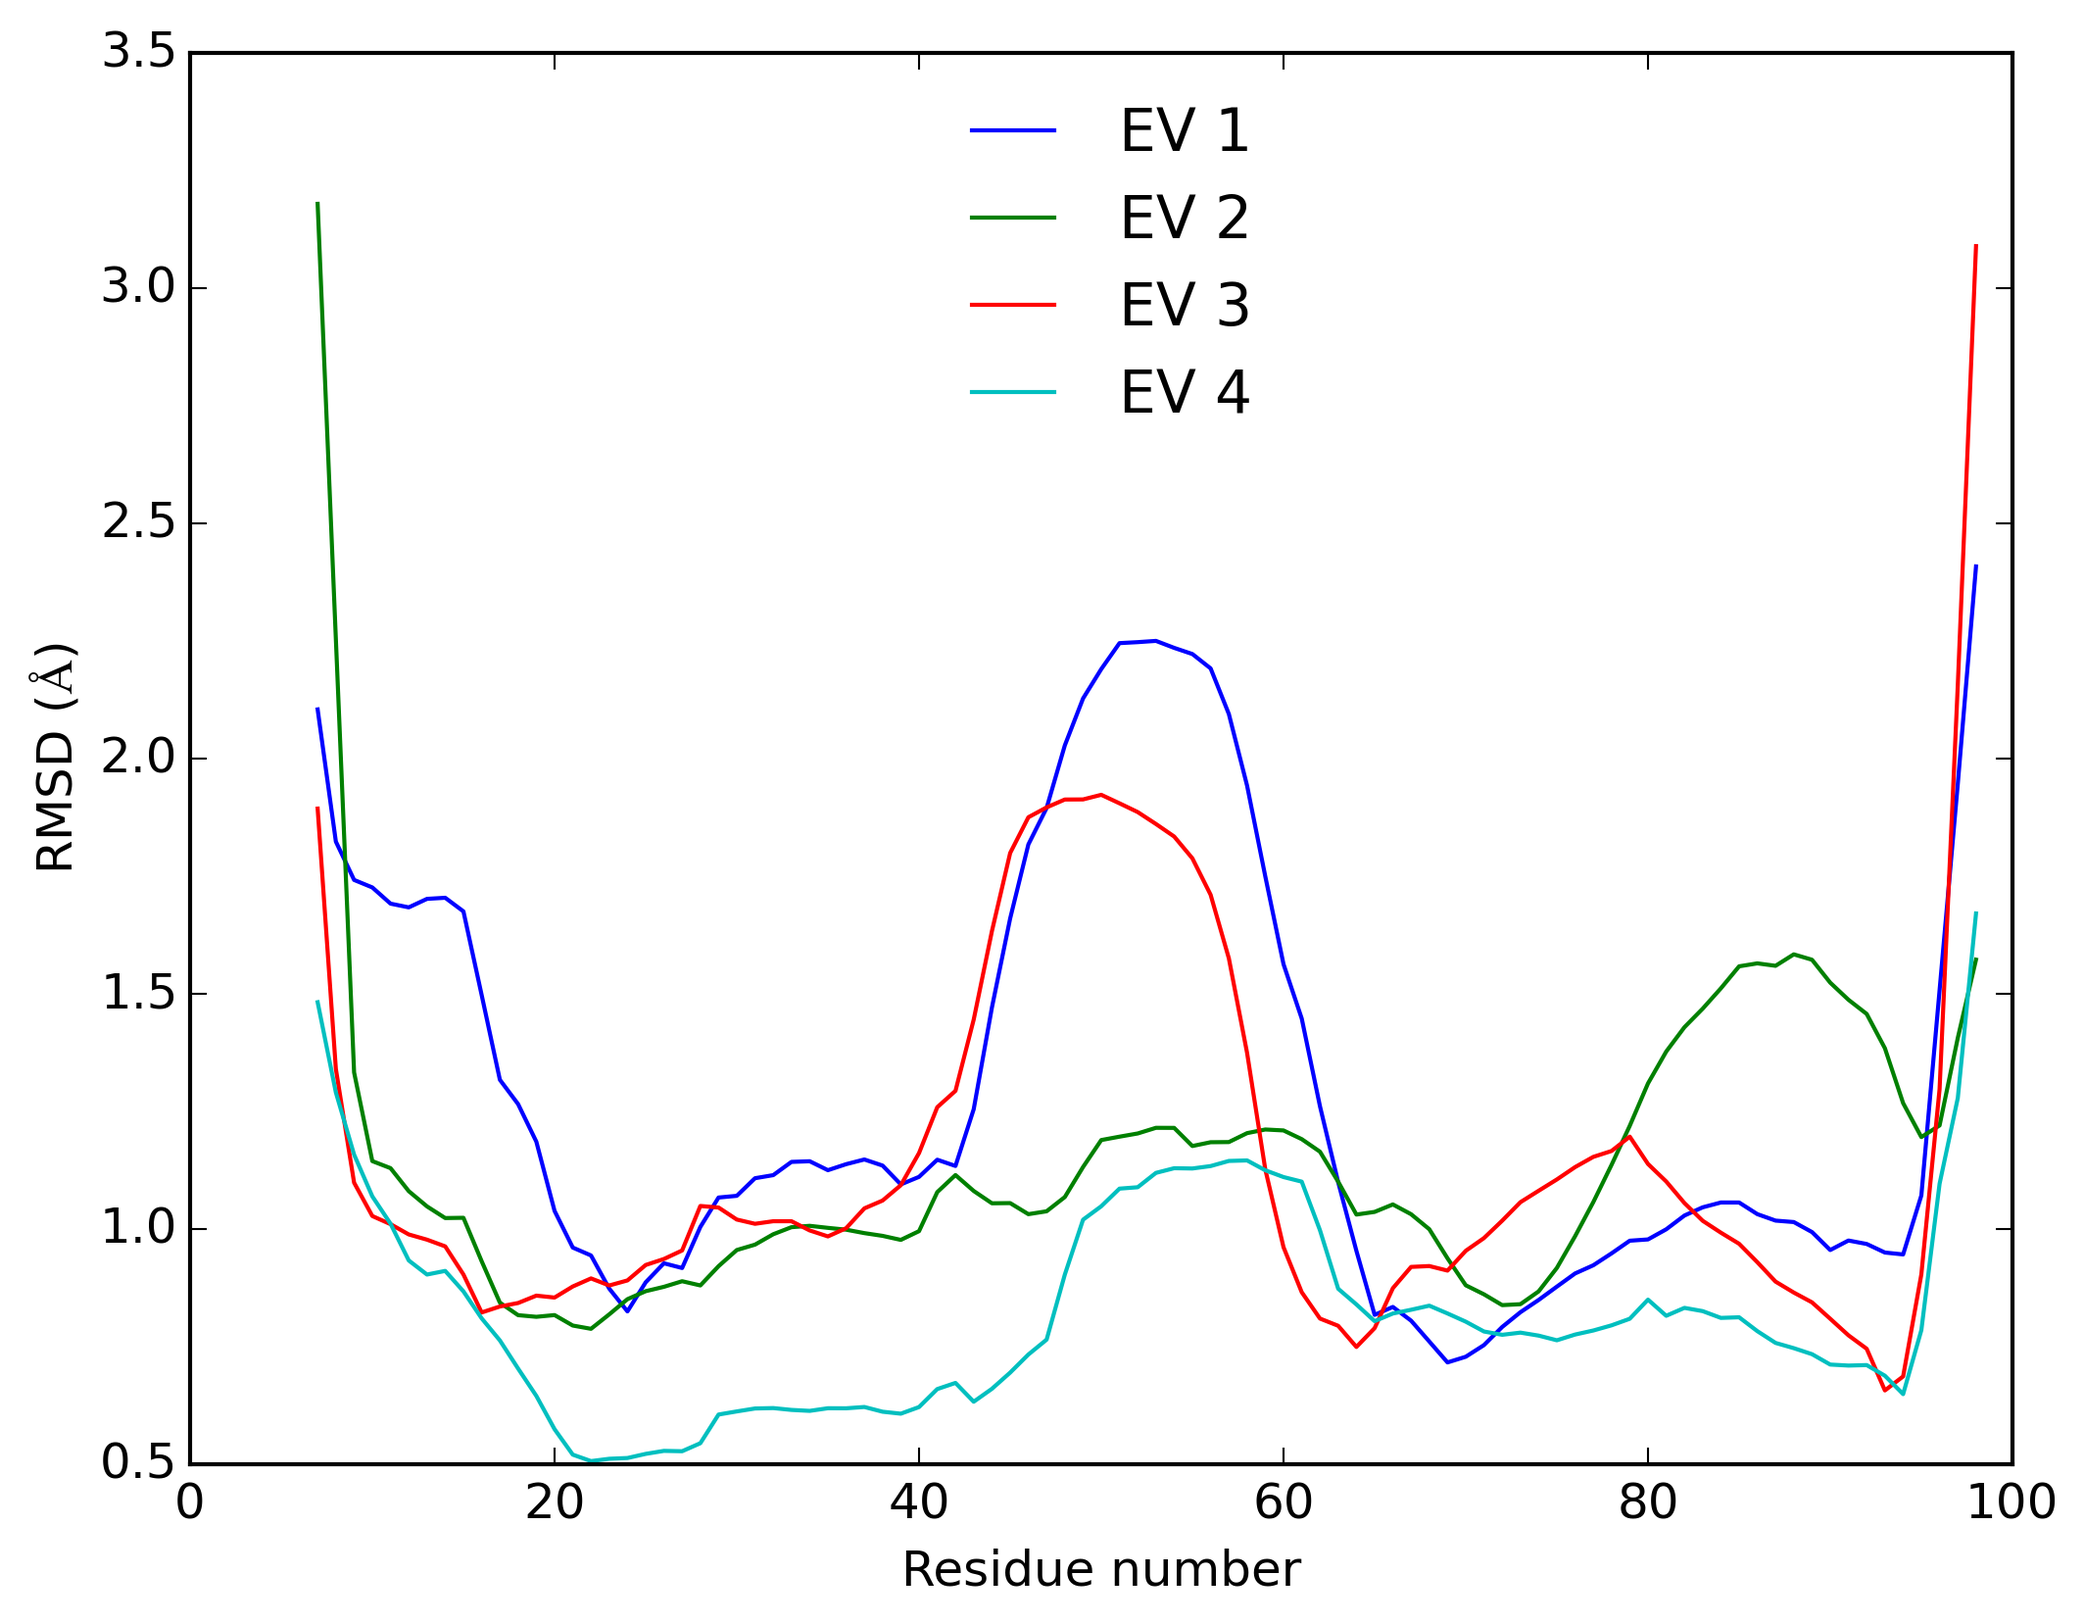
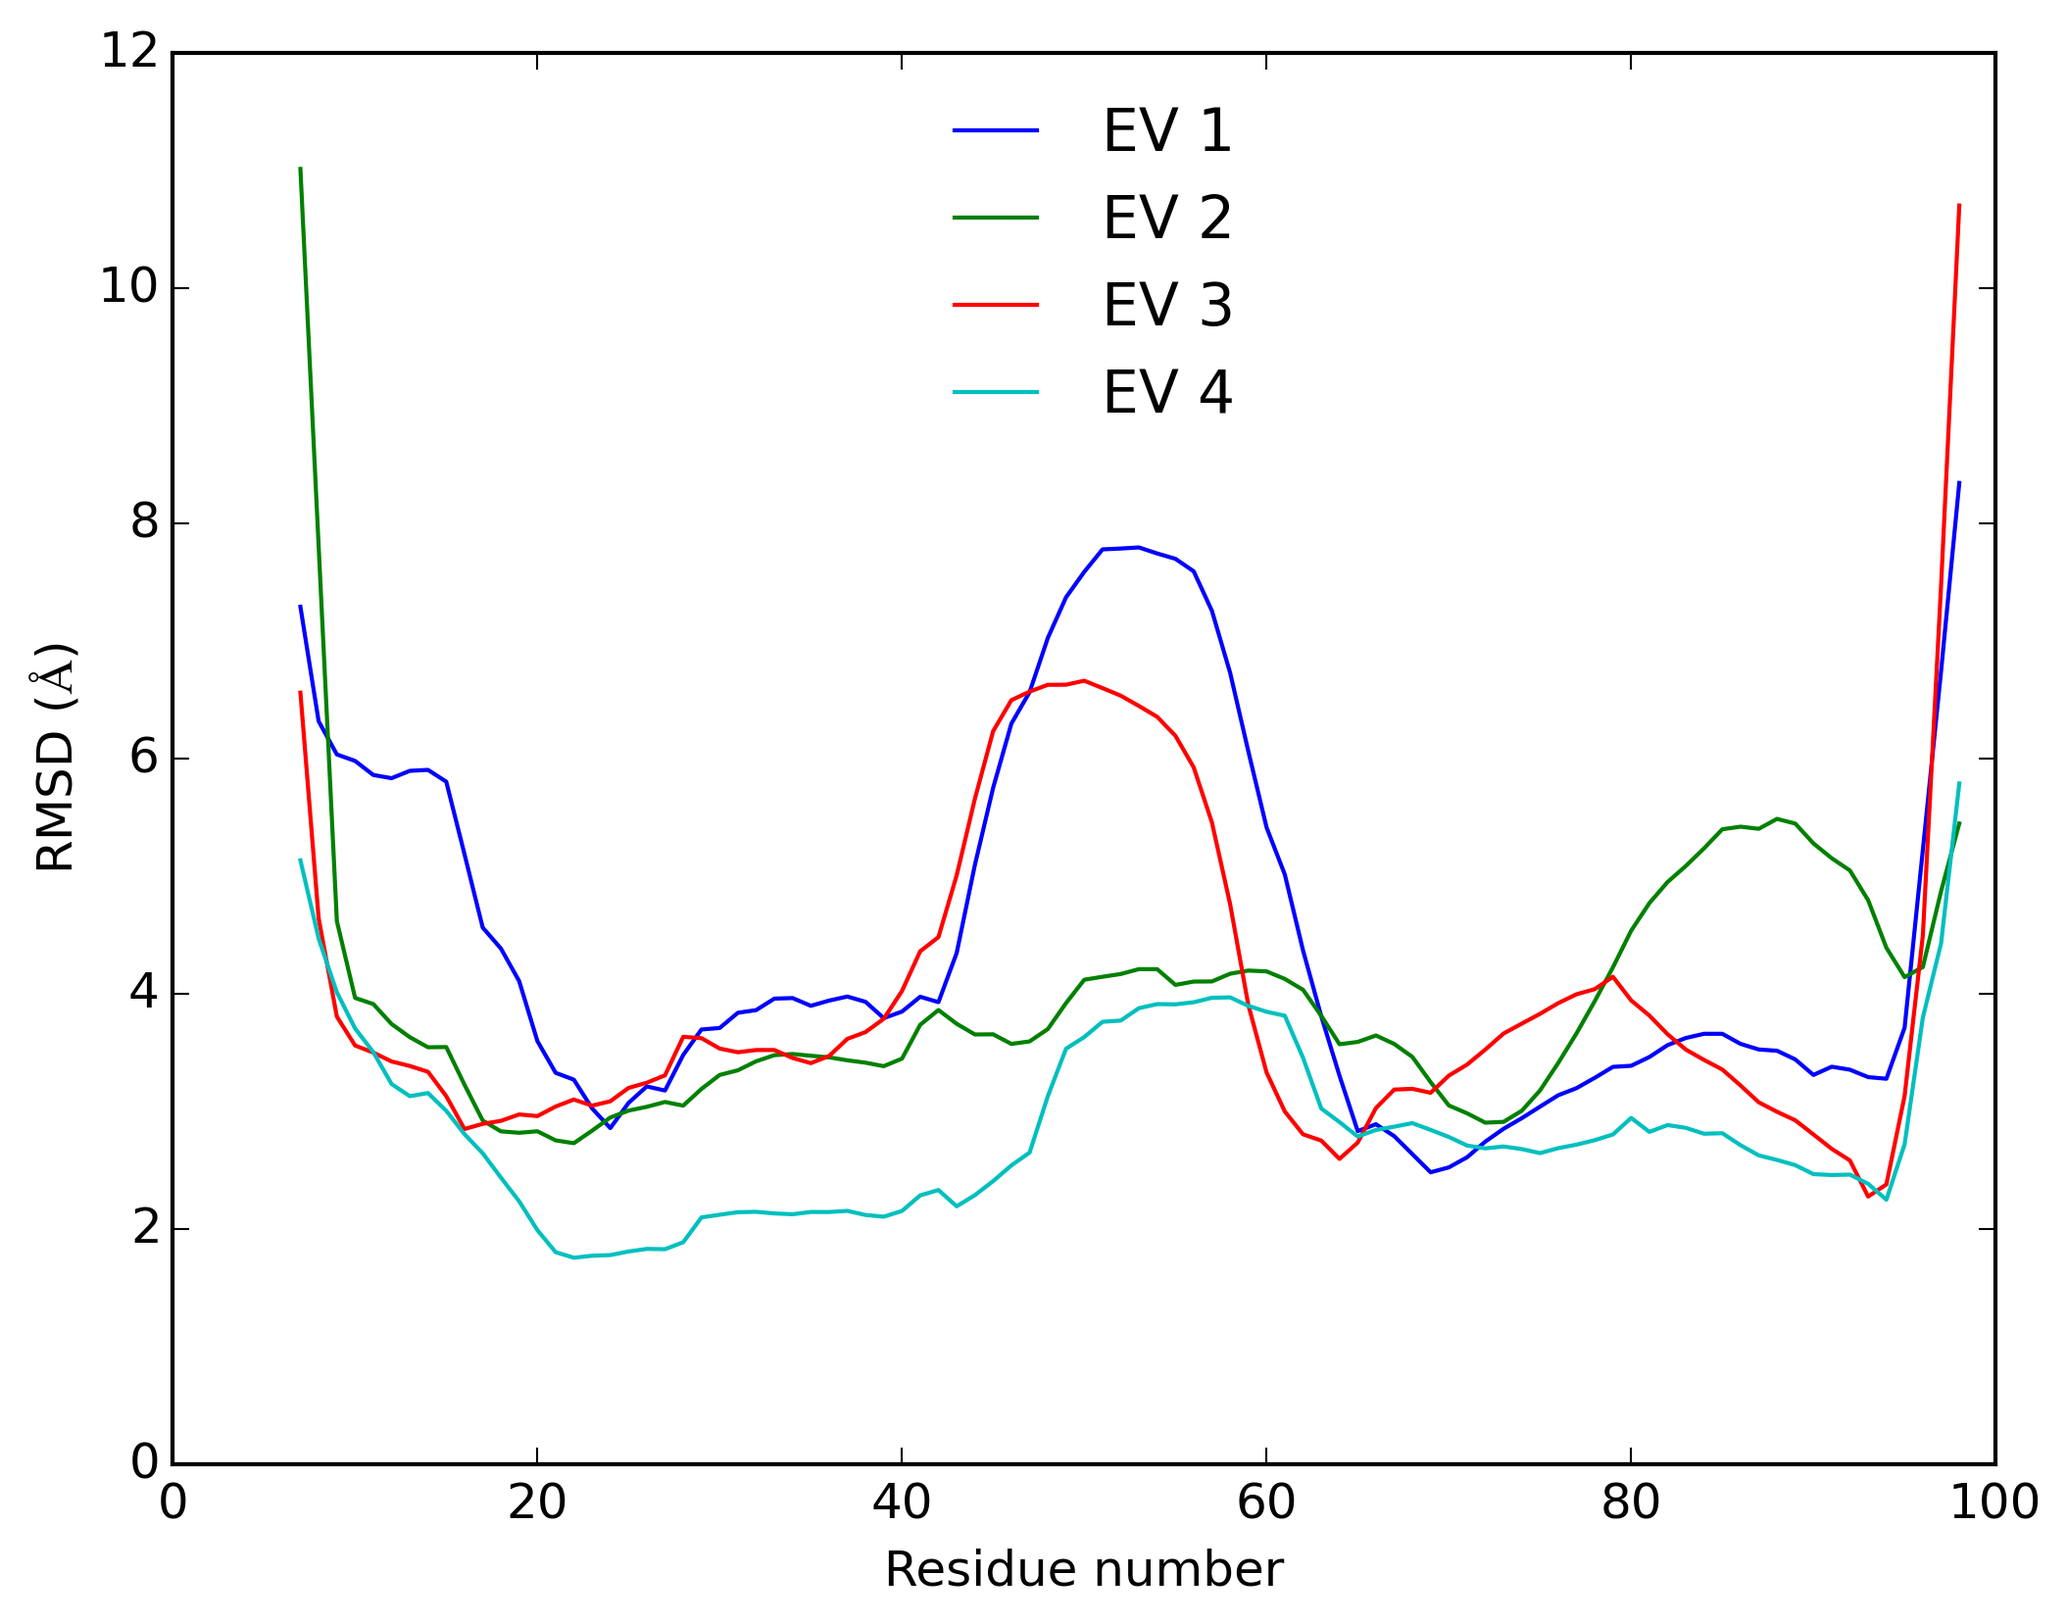
Added proper documentation+RSMDvsresidue plot

diff --git a/edanalysis.py b/edanalysis.py
@@ -1,3 +1,14 @@
+"""This module is part of the EDA(essential dynamics analysis) program, it
+provides several classes to perform the EDA.
+
+Classes:
+    EDAnalysis -> It is the main class, provides an easy interface to
+    carry out ED
+    OneChainSelect -> Class derived from the Bio.PDB.Select class,
+    allows you to write PDBs with a single model
+    WrongModeException -> Specific Exception class that indicates a misuse
+    of the EDA program
+"""
 import copy
 import Bio.PDB as pdb
 import numpy as np
@@ -8,8 +19,58 @@ matplotlib.use("TkAgg")
 
 
 class EDAnalysis:
-    """Implements an essential dynamics analysis..."""
+    """Implements an essential dynamics analysis(EDA).
+
+    Methods:
+
+        __init__ -> Set the basic attributes of the EDAnalysis
+        get_id -> Return the id of the object (as PDB code)
+        get_mode -> Return the mode of the object
+        get_atom -> Return the atom list chosen for the analysis
+        superimpose_models- > Superimpose two or more structures
+        createcordsarray -> Calculate the coordinates for the diferent models
+        cal_cov -> Calculate the covariance matrix
+        plot_eig -> Plot the values of the principal eigenvectors of the
+             covariance matrix
+        plot_eig_wosv -> Same as plot_eig but adapted to some requirements of
+            the Tkinter GUI
+        is_NMR_struct -> Check if the structure loaded is was obtained by NMR
+        check_mode -> Check if the mode selected is consisted with the data
+        move_structure -> Move the structure along a certain eigenvector
+        RMSD_res_plot -> Create a plot with the distance of the residues along
+            some eigenvectors
+
+    Attributes:
+
+        PDBid(private) -> String with the PDB code of the structure anlyzed
+        mode(private) -> String with the mode of the anlysis (for now NMR or MD)
+        atom(private) -> List with the atoms to study
+        structure -> Bio.PDB.Structure object on which the analysis is performed
+        n -> Number of models or trajectories (in NMR or MD modes,respectively)
+        N -> Number of coordinates of the analysis
+        coords_array -> nxN Numpy array with the N coordinates for the n models
+        means -> 1xN Numpy array with the means of the N coordinates over the n
+            models
+        C -> NxN Numoy array that contains the covariance matrix
+        eigvc -> Numpy array with the eigenvectors of the covariance matrix
+        eigvl -> Numpy array with the eigenvalues of the covariance matrix
+    """
+
     def __init__(self, PDBid, mode, atom, pdbfile):
+        """Set the basic attributes of the EDAnalysis class.
+
+        Set the basic attributes of the EDAnalysis class, calculate the number
+        of coordinates of interest, the number of models, load the PDB file with
+        the structure to analyze and check the consistency of the data provided
+        by the user
+
+        Args:
+            PDBid is a string with a PDB code
+            mode is a string with value NMR or MD
+            atom is a list with the particular atoms to focus on the analysis
+            pdbfile is the path to pdbfile to load
+        """
+
         self.__PDBid = PDBid
         self.__mode = mode
         self.__atom = atom
@@ -31,23 +92,33 @@ class EDAnalysis:
         self.check_mode()
 
     def get_id(self):
-        """ """
+        """Return the id of the EDAnalysis as a string."""
         return self.__PDBid
 
     def get_mode(self):
-        """ """
+        """Return the selected mode of the EDAnalysis as a string."""
         return self.__mode
 
     def get_atom(self):
-        """ """
+        """Return the list of atoms of interest to the EDAnalysis."""
         return self.__atom
 
     def superimpose_models(self, reference=0):
-        """ reference is an integer that indicates the reference model"""
+        """Superimpose two or more structures.
+
+        Superimpose two or more structures by using the Bio.PDB.Superimposer
+        class.
+
+        Args:
+            reference is an int with the reference model (default=0)
+        """
+
         ref_model = self.structure[reference]
         for alt_model in self.structure:
             ref_atoms = []
             alt_atoms = []
+            # Iterate over the structure method to obtain all atoms of interest
+            # for the analysis and superimposes the structures using them
             for (ref_chain, alt_chain) in zip(ref_model, alt_model):
                 for ref_res, alt_res in \
                         zip(ref_chain, alt_chain):
@@ -80,7 +151,7 @@ class EDAnalysis:
                 super_imposer.apply(alt_model.get_atoms())
 
     def createcordsarray(self):
-        """ """
+        """Calculate the coordinates for the diferent models."""
         array_stored = np.zeros((self.n, self.N))
         means = np.zeros((1, self.N))
         i = 0
@@ -98,7 +169,13 @@ class EDAnalysis:
         self.means = means
 
     def cal_cov(self):
-        """ """
+        """Calculate the covariance matrix.
+
+        Calculate the covariance matrix from the coordinates caculated with the
+        createcordsarray method, the diagonalize the covariance matrix using
+        scipy.linalg.eigh
+        """
+
         C = np.zeros((self.N, self.N))
         for x in self.coords_array:
             x_prod = x - self.means
@@ -108,35 +185,46 @@ class EDAnalysis:
         self.eigvl, self.eigvc = linalg.eigh(C)
 
     def plot_eig(self, n_plot, pathplots, fig=None):
-        """ """
+        """Plot the values of the principal eigenvectors of the cov. matrix.
+
+        Args:
+            n_plot -> Int with the number of eigvalues to plot
+            pathplots -> Directory where the plot will be stored
+            fig -> Matplotlib figure handle, the default in None, so a new
+                figure handle will be created
+
+        Returns the figure handle that contains the plot
+        """
+
         if fig is None:
             fig = plt.figure()
         valid_evl = self.eigvl[-1:-n_plot-1:-1] / 100
         plt.plot(range(1, n_plot+1), valid_evl)
         plt.xlabel('Eigenvector index')
         plt.ylabel('Eigenvalue ($nm^2$)')
-        # plt.axis([0, n, 0, 3])
         fig.savefig(pathplots+'eig_'+self.__PDBid+'_plot.png',
                     bbox_inches='tight', dpi=300)
         return fig
 
     def plot_eig_wosv(self, n_plot, fig=None):
-        """ """
+        """Essentially the same as plot_eig, just adapted to the Tkinter GUI."""
         if fig is None:
             fig = plt.figure()
         valid_evl = self.eigvl[-1:-n_plot-1:-1] / 100
         plt.plot(range(1, n_plot+1), valid_evl)
         plt.xlabel('Eigenvector index')
         plt.ylabel('Eigenvalue ($nm^2$)')
-        # plt.axis([0, n, 0, 3])
         return fig
 
     def is_NMR_struct(self):
-        """ Function to ensure the loaded structure is a NMR"""
+        """Check wether the loaded structure is a NMR"""
         return 'nmr' in self.structure.header['structure_method'].lower()
 
     def check_mode(self):
-        """ """
+        """Check the consistency betweent the mode chosen by the user and the
+        data provided.
+        """
+
         if self.__mode is None:
             raise WrongModeException('empty')
         if self.__mode == 'NMR' and not self.is_NMR_struct():
@@ -145,22 +233,31 @@ class EDAnalysis:
             raise WrongModeException(self.__mode)
 
     def move_structure(self, t_max, evc, pathname, t_min=0, step=0.1):
-        """ Returns a new structure with the coordinates calculated from a
-        certain eigenvector"""
+        """Move the structure along a certain eigenvector.
+
+        Project the coordinates of the stucture onto an eigenvector and then
+        uses this projection to move the structure along this eigenvector,
+        creating a PDB file with the now moved coordinates
+
+        Args:
+            t_max -> Int with the final time of the trajectory
+            evc -> Int with the eigenvector to use, raise a ValueError if it is
+                not between 1 and N
+            pathname -> Directory where to store the pdb files generated
+            t_min -> Int with initial time of the trajectory (default=0)
+            step -> Float with the time-step of the trajectory (default=0.1)
+
+        Returns a list with all the files generated
+        """
+
+        if evc < 1 or evc > self.N:
+            raise ValueError('Eigenvector index has to be between 1 and N')
         structure_moved = copy.deepcopy(self.structure)
-        filename = ''.join([pathname, self.__PDBid, '_evc', str(evc), '_0.pdb'])
-        io = pdb.PDBIO()
-        io.set_structure(structure_moved)
-        io.save(filename, OneChainSelect())
         pcord = np.dot(self.eigvc[:, -evc], (self.coords_array[0] -
                                              self.means[0, :]))
-        image_list = [filename]
+        image_list = []
         nsteps = int((t_max - t_min) / step)
         for t in np.linspace(t_min, t_max, num=nsteps):
-            if int(t/step) == 0:
-                # This block maybe could be avoided and use the means as
-                # reference
-                continue
             eig_move = t * pcord * self.eigvc[:, -evc] + self.means
             j = 0
             for residue in structure_moved[0].get_residues():
@@ -177,7 +274,22 @@ class EDAnalysis:
         return image_list
 
     def RMSD_res_plot(self, evc, pathplots, fig=None):
-        """ """
+        """Create a plot with the distance of the residues along
+        some eigenvectors
+
+        Project the structure over some eigenvectors and calculte new
+        coordinates, calculate the RMSD between the new and old coordinates by
+        using a shifting-window RMS method (with a window of 15 residues) and
+        plot the RMSD against the residue number
+
+        Args:
+            evc -> Int with the maximum eigenvector to include in the plot
+            pathplots -> Directory to store the plot
+            fig -> Matplotlib figure handle, the default in None, so a new
+                figure handle will be created
+
+        Returns the figure handle that contains the plot
+        """
         if fig is None:
             fig = plt.figure()
         for evcn in range(1, evc+1):
@@ -196,7 +308,6 @@ class EDAnalysis:
             eig_move_min = pmin * self.eigvc[:, -evcn] + self.means
             pcord = np.dot(self.eigvc[:, -evcn], (self.coords_array[0] -
                                                   self.means[0, :]))
-            # eig_move = pcord * self.eigvc[:, -evcn] + self.means
             step = len(self.__atom)*3
             nres = int(self.N / step) - 15 + 1 + 1
             RMSD_list = np.zeros(nres)
@@ -204,6 +315,8 @@ class EDAnalysis:
             i = 0
 
             for residue in self.structure[0].get_residues():
+                # Calculate the RMSD for each residue using the shifting-window
+                # RMS method with a window size of 15
                 if residue.has_id('CA'):
                     j_final = j+7*step
                     j_init = j-7*step
@@ -213,19 +326,16 @@ class EDAnalysis:
                         j += step
                         continue
                     else:
-                        # RMSDvl = eig_move[0][j_init:j_final] - \
-                        #      self.coords_array[0][j_init:j_final]
                         RMSDvl = eig_move_max[0][j_init:j_final] - \
                            eig_move_min[0][j_init:j_final]
                         j += step
-                        RMSD = np.sqrt(np.sum(RMSDvl**2)/len(RMSDvl))
+                        RMSD = np.sqrt(np.sum(RMSDvl**2)/int(len(RMSDvl)/step))
                         RMSD_list[i] = RMSD
                         i += 1
             plt.plot(range(7, nres+7), RMSD_list,
                      label="EV {:d}".format(evcn))
         plt.ylabel('RMSD ($\AA$)')
         plt.xlabel('Residue number')
-        # plt.axis([0, n, 0, 3])
         plt.legend(loc='best', frameon=False)
         filename = ''.join([pathplots, 'eig_', str(evc), '_', self.__PDBid,
                             '_resplot.png'])
@@ -243,10 +353,11 @@ class OneChainSelect(pdb.Select):
 
 
 class WrongModeException(Exception):
+    """Specific Exception class that indicates a misuse of the EDA program."""
+
     def __init__(self, mode):
         self.mode = mode
 
     def __str__(self):
-        """ 2"""
         return ("Your mode selection is {:s}, please input an appropiate "
                 "structure").format(self.mode)

diff --git a/PyEDA.py b/PyEDA.py
@@ -27,6 +27,7 @@ parse_args.add_argument('-c', '--code', dest="code", action="store",
                         default=None, help="Input pdb code for the protein you \
                         want to study")
 parse_args.add_argument('-i', '--input', dest="infile", action="store",
+                        default=None,
                         help="Input pdb file with either NMR or MD data")
 parse_args.add_argument('-m', '--mode', dest='mode', action="store",
                         choices=['NMR', 'MD'], help="Select wether you want to \
@@ -64,7 +65,9 @@ if not options.graphical:
     interface.mainloop()
     sys.exit("The application has been closed.\n")
 
-
+if options.mode == 'MD' and options.infile is None:
+    raise ValueError(('To use the MD mode you need to input a trajectory in '
+                      'a PDB file'))
 if mdl.pdb_code_check(options.code):
     pdb_id = options.code
 else:
@@ -83,14 +86,17 @@ if not os.path.exists(pathname+pdbfile):
     pdbobj.retrieve_pdb_file(pdb_id, pdir=pathname)
 
 if not (pdbfile.endswith('pdb') or pdbfile.endswith('ent')):
-    raise ValueError('Your input file is not a valid PDB file, please use a \
-                     pdb or ent file')
+    raise ValueError(('Your input file is not a valid PDB file, please use a '
+                      'pdb or ent file'))
 
 atom_list = []
 if options.atom == 'CA':
     atom_list = ['CA']
 elif options.atom == 'Back':
     atom_list = ['N', 'CA', 'C', 'O']
+
+if options.verb:
+    print("Initializing analysis information")
 
 ED = eda.EDAnalysis(pdb_id, options.mode, atom_list, pathname+pdbfile)
 
